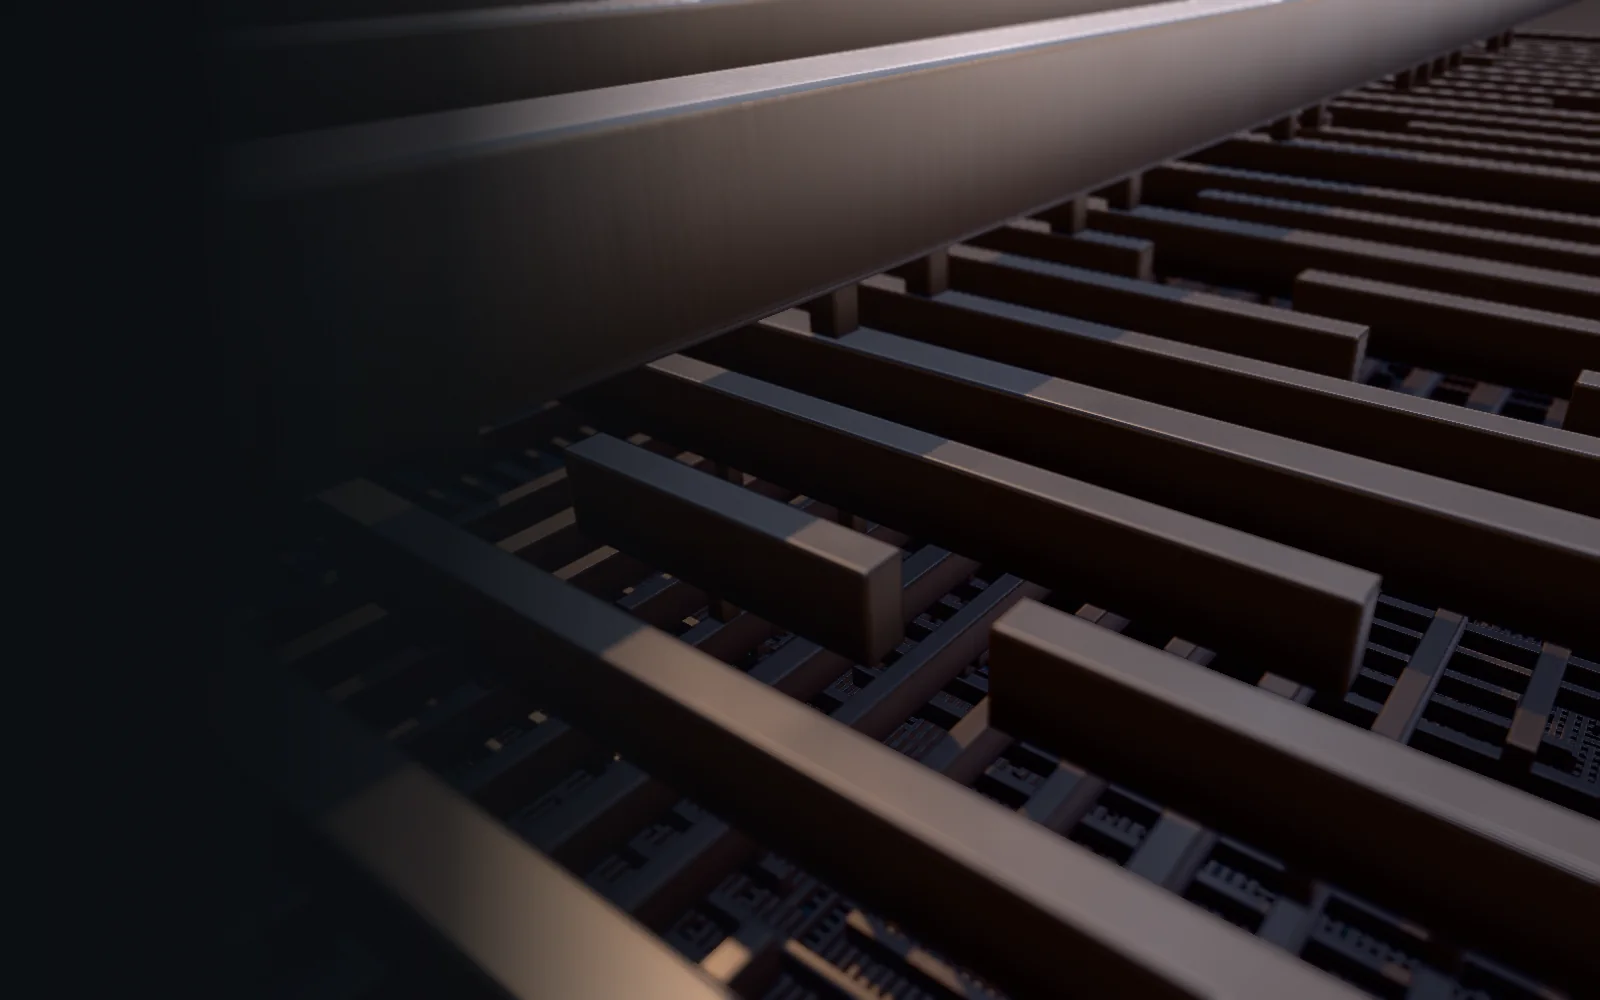
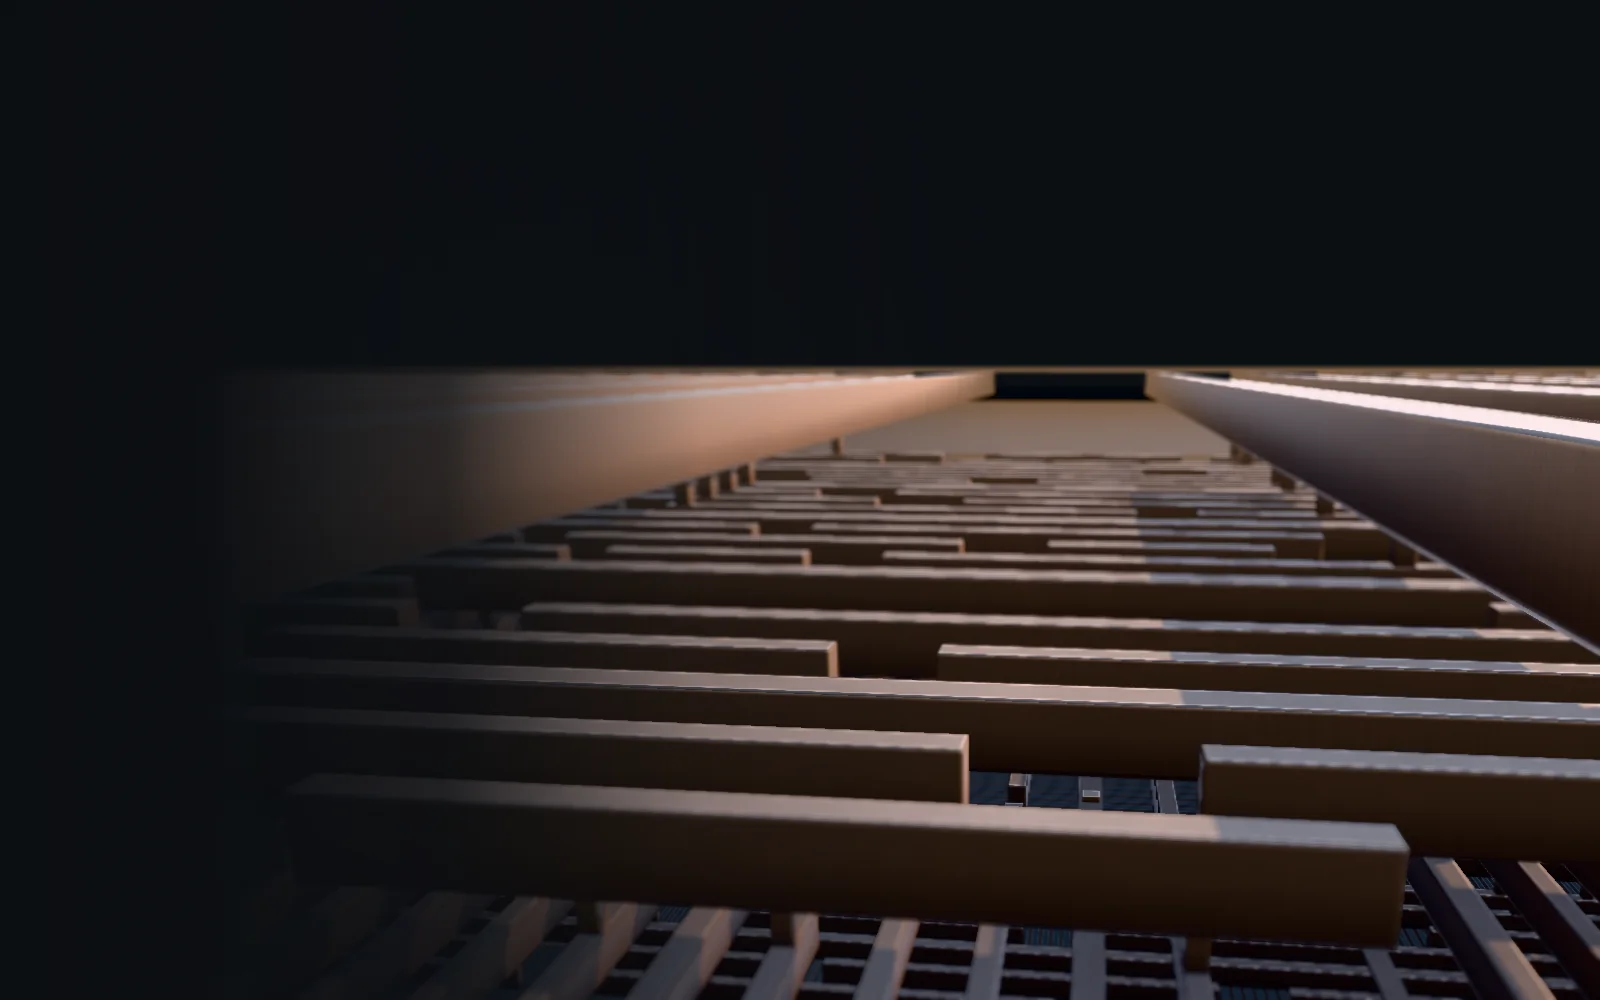
Chapter 03: reveal with a horizon and low sun, a die with real structure
Reveal: just above the top straps looking along them, 15 degrees down, so they recede to a horizon
in the upper third with lighter, warmer low-sun haze; the nearest strap sits low on the left under
the heading; a lower, stronger sun from the right with more exposure only around the reveal. Metal
the camera passed is deposited later (it no longer pops up right in front), clearance scales up.
Die: memory arrays with a fine view-dependent sheen, logic as cell rows filled with the real routing
at reduced size, analog/IO blocks at the edge, a 100 um power grid catching the sun, a lighter
silicon side.

diff --git a/src/scripts/scenes/scale.js b/src/scripts/scenes/scale.js
@@ -26,7 +26,7 @@ const BG = new Color('#0b0e12');
 const METALS = {
   lower: { color: '#7c858f', metalness: .85, roughness: .4 },
   copper: { color: '#a07f6a', metalness: .65, roughness: .38, cap: .45 },
-  thick: { color: '#b08e74', metalness: .55, roughness: .42, cap: .55 },
+  thick: { color: '#b89274', metalness: .45, roughness: .45, cap: .5 },
   silicon: { color: '#8a939c', metalness: .6, roughness: .38 },
   gate: { color: '#a59d92', metalness: .85, roughness: .32 },
   epi: { color: '#9aa3ac', metalness: .5, roughness: .36 },
@@ -34,8 +34,12 @@ const METALS = {
 };
 // Low sun from the left of the reveal avenue (+y), a little ahead of the camera.
 const SUN = new Vector3(.32, .7, .95).normalize();
+// For the reveal the sun drops lower and comes from the right of the view (long shadows, the left
+// under the heading in shade); between the two the direction is interpolated.
+const SUN_LOW = new Vector3(.35, -.78, .55).normalize();
+const sunDir = new Vector3();
 /** Shared by every material of the scene (same objects, so one update reaches all). */
-const LIGHT = { uSunDir: { value: SUN }, uHaze: { value: new Color('#3d3029') }, uDeep: { value: new Color('#05080d') },
+const LIGHT = { uSunDir: { value: sunDir }, uHorizon: { value: new Color('#8f735c') }, uHorizonMix: { value: 0 }, uHaze: { value: new Color('#3d3029') }, uDeep: { value: new Color('#05080d') },
   uCool: { value: new Vector3(.78, .9, 1.12) }, uU: { value: 0 } };
 
 const FOG = /* glsl */`
@@ -45,12 +49,15 @@ const FOG = /* glsl */`
   float glow = pow(max(dot(normalize(vWorldP - cameraPosition), uSunDir), 0.0), 5.0);
   // Depths go blue-black (the canyon floors), the distance goes to the page background.
   gl_FragColor.rgb = mix(gl_FragColor.rgb, uDeep, .65 * (1.0 - exp(-max(uTop - vWorldP.z, 0.0) / uShadeScale)));
-  gl_FragColor.rgb = mix(gl_FragColor.rgb, mix(fogColor, uHaze, glow), fogFactor);
+  // Toward the horizon of the reveal the haze is a little lighter and warmer (low sun in the air).
+  vec3 hazeColor = mix(mix(fogColor, uHaze, glow), uHorizon * (.6 + .6 * glow), uHorizonMix);
+  gl_FragColor.rgb = mix(gl_FragColor.rgb, hazeColor, fogFactor);
 #endif
 `;
 const COMMON = /* glsl */`
 uniform float uVis, uGrow, uTop, uLiner, uCap, uShadeScale, uU;
-uniform vec3 uSunDir, uHaze, uDeep, uCool;
+uniform vec3 uSunDir, uHaze, uDeep, uCool, uHorizon;
+uniform float uHorizonMix;
 varying vec3 vLocal; varying vec3 vHalf; varying vec3 vWorldP;
 float hash2(vec2 p) { vec3 q = fract(vec3(p.xyx) * .1031); q += dot(q, q.yzx + 33.33); return fract((q.x + q.y) * q.z); }
 float hash3(vec3 p) { p = fract(p * .1031); p += dot(p, p.yzx + 33.33); return fract((p.x + p.y) * p.z); }
@@ -155,7 +162,8 @@ function boxes(list, { cap = 0, ...params }, { liner = 0, shadows } = {}) {
 // ---- flat surfaces ----------------------------------------------------------------------------
 const SURFACE = /* glsl */`
 uniform float uVis, uGrow, uTop, uShadeScale, uPitch, uWidth, uDir, uU;
-uniform vec3 uSunDir, uHaze, uDeep, uCool;
+uniform vec3 uSunDir, uHaze, uDeep, uCool, uHorizon;
+uniform float uHorizonMix;
 uniform sampler2D uTopMap;
 uniform vec4 uBlocks[24];
 uniform float uKinds[24];
@@ -224,10 +232,29 @@ vec3 col; float metal, rough;
   }
   // Fine textures fade to their average once they go below a pixel (fwidth of the coordinate).
   float fine = 1.0 - smoothstep(700.0, 2500.0, fwidth(w.x));
-  // Memory: sub-arrays in a regular grid (visible from millimetres), logic: an irregular tone.
-  if (kind > .5 && kind < 1.5) col = mix(vec3(.06, .07, .085), vec3(.2, .23, .27), stripe(w.x, 9000.0, 6500.0) * stripe(w.y, 5000.0, 3600.0)) * (.85 + .3 * stripe(w.x, 9e4, 8.4e4) * stripe(w.y, 6e4, 5.6e4));
-  else if (kind > 1.5) col = vec3(.1, .095, .095);
-  else if (kind > -.5) col = mix(vec3(.07, .065, .06), mix(vec3(.05, .05, .05), vec3(.1, .095, .09), hash2(floor(w / 3000.0))), fine) * (.85 + .3 * vnoise2(w / 6e4));
+  vec3 view = normalize(cameraPosition - vWorldP);
+  float sheenK = 0.0, blockMetal = .5;
+  if (kind > .5 && kind < 1.5) {
+    // Memory: sub-arrays of bit cells in a regular grid, word-line/bit-line rhythm inside, a fine
+    // neutral interference sheen that shifts with the view angle (regular gratings do this).
+    float cells = stripe(w.x, 9000.0, 6500.0) * stripe(w.y, 5000.0, 3600.0);
+    float bank = stripe(w.x, 9e4, 8.4e4) * stripe(w.y, 6e4, 5.6e4);
+    col = mix(vec3(.07, .08, .095), vec3(.21, .23, .26), cells) * (.8 + .35 * bank);
+    col += .05 * (.5 + .5 * cos(6.2831 * (view.z * 1.7 + vec3(0.0, .33, .67)))) * bank;
+    blockMetal = .7;
+  } else if (kind > 1.5) {
+    // Analog / IO: a few large devices (capacitor and transistor arrays) in a coarse grid.
+    col = mix(vec3(.09, .09, .1), vec3(.2, .19, .18), stripe(w.x, 2.4e4, 1.5e4) * stripe(w.y, 1.6e4, 1e4));
+  } else if (kind > -.5) {
+    // Logic: standard-cell rows separated by routing channels; inside the rows, the real routing
+    // (the baked level under the top straps) at a quarter of its size, so it reads at this scale.
+    vec2 ruv = .5 + (fract(w / 3.2e4) - .5) * ${(2 * LEVELS.at(-2).extent / (2 * LEVELS.at(-1).extent)).toFixed(4)};
+    float routing = texture2D(uTopMap, ruv).g;
+    float rows = stripe(w.y, 3.2e4, 2.6e4);
+    col = mix(vec3(.06, .062, .066), mix(vec3(.08, .08, .085), vec3(.19, .17, .15), routing), rows) * (.9 + .2 * vnoise2(w / 6e4));
+  }
+  // Power grid: wide straps every 100 um in both directions, catching the sun.
+  float grid = max(stripe(w.x, 1e5, 9000.0), stripe(w.y, 1e5, 9000.0)) * step(-.5, kind);
   // The top straps (every third track, unbroken) and the level below, exactly as routed.
   float top = stripe(w.y, ${(3 * LEVELS.at(-1).pitch).toFixed(1)}, ${LEVELS.at(-1).width.toFixed(1)});
   float below = stripe(w.x, ${LEVELS.at(-2).pitch.toFixed(1)}, ${LEVELS.at(-2).width.toFixed(1)}) * .8;
@@ -235,14 +262,14 @@ vec3 col; float metal, rough;
   if (max(abs(w.x), abs(w.y)) < ${LEVELS.at(-2).extent.toFixed(1)}) below = texture2D(uTopMap, tuv).g;
   vec3 copperTone = vec3(.37, .29, .22);
   col = mix(col, mix(col * .7, copperTone * .5, .5), below * .5);
-  col = mix(col, mix(copperTone, vec3(.4), .35), top);
+  col = mix(col, mix(copperTone, vec3(.4), .35), max(top, grid * .8));
   vec2 e = min(w - vec2(${DIE.x[0].toFixed(1)}, ${DIE.y[0].toFixed(1)}), vec2(${DIE.x[1].toFixed(1)}, ${DIE.y[1].toFixed(1)}) - w);
   float edge = min(e.x, e.y);
   float ring = max((1.0 - smoothstep(2.6e4, 2.9e4, edge)) * smoothstep(1.8e4, 2.1e4, edge), (1.0 - smoothstep(4.0e4, 4.3e4, edge)) * smoothstep(3.5e4, 3.8e4, edge));
   float pads = (1.0 - smoothstep(1.4e5, 1.42e5, edge)) * smoothstep(7e4, 7.2e4, edge) * stripe(e.x < e.y ? w.y : w.x, 1.2e5, 7e4);
   col = mix(col, vec3(.55, .58, .62), ring * .8);
   col = mix(col, vec3(.7, .56, .44), pads);
-  metal = .45 + .4 * top; rough = .38;
+  metal = mix(blockMetal, .8, max(top, grid)); rough = mix(.4, .3, max(top, grid));
 #endif
 float ao = depthShade(vWorldP.z);`)
       .replace('#include <color_fragment>', '#include <color_fragment>\ndiffuseColor.rgb = col;')
@@ -328,7 +355,7 @@ export async function createScale({ renderer, environment, dof, shadows = true }
   for (const s of surfaces) if (s.die) floorplan().forEach((b, i) => { s.mesh.userData.uniforms.uBlocks.value[i].set(b[0], b[1], b[2], b[3]); s.mesh.userData.uniforms.uKinds.value[i] = b[4]; });
   for (const s of surfaces) scene.add(s.mesh);
   // The die body under it all (its top hidden below the oxide), for the edges in the far view.
-  const body = new Mesh(new BoxGeometry(dieSize[0], dieSize[1], DIE.thickness), new MeshStandardMaterial({ color: '#3a4048', metalness: .6, roughness: .5 }));
+  const body = new Mesh(new BoxGeometry(dieSize[0], dieSize[1], DIE.thickness), new MeshStandardMaterial({ color: '#6a7078', metalness: .55, roughness: .45 }));
   body.position.set(dieCenter[0], dieCenter[1], -DIE.thickness / 2 - 2);
   scene.add(body);
 
@@ -363,7 +390,10 @@ export async function createScale({ renderer, environment, dof, shadows = true }
       camera.projectionMatrixInverse.copy(camera.projectionMatrix).invert();
       camera.position.set(...cam.position);
       camera.lookAt(...cam.target);
-      scene.fog.near = d * 2.2; scene.fog.far = d * 14;
+      // The reveal gets the low sun, more of it, and the horizon haze; inside the layers stays as is.
+      const reveal = smoothstep(.42, .56, progress) * (1 - smoothstep(.64, .74, progress));
+      LIGHT.uHorizonMix.value = reveal;
+      scene.fog.near = d * (2.2 - .9 * LIGHT.uHorizonMix.value); scene.fog.far = d * (14 - 5 * LIGHT.uHorizonMix.value);
 
       // Darker the deeper below the viewer (and below the deposited top): canyons, not a black pit.
       const g = growth(progress), top = Math.min(buildHeight(progress), cam.position[2] + .3 * d), shade = .3 * top + 60;
@@ -388,13 +418,17 @@ export async function createScale({ renderer, environment, dof, shadows = true }
         s.mesh.visible = u.uGrow.value > 1e-3 && (!s.inner || u.uVis.value < 1);
         s.mesh.material = s.mesh.userData.variants[u.uGrow.value < 1 ? 1 : 0];
       }
+      sunDir.copy(SUN).lerp(SUN_LOW, reveal).normalize();
+      sun.intensity = 2.6 + 8 * reveal;
+      scene.environmentIntensity = 1.3 + .6 * reveal;
+      LIGHT.uHorizonMix.value = reveal;
       sun.target.position.set(...cam.target);
-      sun.position.copy(sun.target.position).addScaledVector(SUN, d * 4);
+      sun.position.copy(sun.target.position).addScaledVector(sunDir, d * 4);
       const sc = sun.shadow.camera, r = d * 1.4;
       sc.left = -r; sc.right = r; sc.top = r; sc.bottom = -r; sc.near = d * .5; sc.far = d * 9;
       sc.updateProjectionMatrix();
       sun.shadow.bias = -.0004; sun.shadow.normalBias = d * .002;
-      renderer.toneMappingExposure = 1.05;
+      renderer.toneMappingExposure = 1.05 + .5 * reveal;
       dof.render(scene, camera, { focus: d, aperture: cam.aperture, opacity, farMax: 3.5 });
       return opacity > .6 ? { ...scaleBar(size[1], cam.fov, d, 90), scene: 'scale' } : null;
     },

diff --git a/src/scripts/scenes/scale-math.js b/src/scripts/scenes/scale-math.js
@@ -93,11 +93,11 @@ export function keyframes(framing = 'desktop') {
     // Above the deposition front, looking down across the crossing middle levels; the thick top
     // levels then rise around the camera as it climbs.
     { target: [-200, 100, 700], d: 2000, az: .75, el: .78, fov: m ? 52 : 40, shift: m ? [0, -.25] : [.16, 0], aperture: .035 },
-    // Reveal: an oblique view from just above the top straps, about 23 degrees down: two or three
-    // thick straps cross the near third, through the openings the eye falls past the middle levels
-    // to the fine ones; the structure repeats to a horizon at the top of the frame. The sun comes
-    // from the right, so the left (under the heading) is the shadow side.
-    { target: [2500, 2000, 3500], d: 15000, az: .95, el: .5, fov: m ? 60 : 50, shift: m ? [0, -.5] : [.2, .02], aperture: .012 },
+    // Reveal: just above the top straps, about 15 degrees down, looking along them: they recede as
+    // rails to a horizon in the upper third, the nearest one quiet on the left under the heading;
+    // between them the eye drops past the middle levels to the fine ones. The low sun from the right
+    // throws long shadows of the straps across the level below.
+    { target: [15000, 4500, 5000], d: 18000, az: 1.45, el: .26, fov: m ? 60 : 50, shift: m ? [0, -.5] : [.2, -.3], aperture: .012 },
     // The die corner: pad ring, seal ring, floorplan blocks, the real stack somewhere inside.
     { target: [-1.2e5, 2.6e5, STACK_TOP], d: m ? 2.4e6 : 1.6e6, az: .9, el: .78, fov: m ? 36 : 30, shift: m ? [0, -.55] : [.24, 0], aperture: .008 },
     { target: [(DIE.x[0] + DIE.x[1]) / 2, (DIE.y[0] + DIE.y[1]) / 2, 0], d: m ? 1.6e7 : 9e6, az: 1.0, el: .95, fov: m ? 36 : 30, shift: m ? [0, -.5] : [.24, 0], aperture: .012 },
@@ -149,7 +149,7 @@ export function scaleCamera(u = 0, framing = 'desktop', drift = 0) {
 // ---- routing ----------------------------------------------------------------------------------
 /** Clearance around the camera path: metal never comes closer than this (nm). */
 /** Clearance around the camera path: metal never comes closer than this (nm); wide lines keep more. */
-function clearance(cam, level) { return Math.min(.45 * cam.d, 1500) + level.width; }
+function clearance(cam, level) { return Math.min(.6 * cam.d, 3000) + level.width; }
 
 /** Camera samples along the whole path (both framings), for clearing a street through the stack. */
 function cameraSamples() {
@@ -158,7 +158,7 @@ function cameraSamples() {
   return out;
 }
 /** Metal the camera passes close to is deposited only after it has passed: last u it is near, plus a margin. */
-export const AFTER = { margin: .03, span: .04 };
+export const AFTER = { margin: .1, span: .05 };
 function after(box, near, level) {
   let last = -1;
   for (const c of near) if (boxDistance(c.position, box.min, box.max) <= clearance(c, level)) last = Math.max(last, c.u);
@@ -288,6 +288,10 @@ export function floorplan(seed = 9) {
     else { const m = y0 + h * t; split(x0, y0, x1, m, depth + 1); split(x0, m, x1, y1, depth + 1); }
   };
   split(DIE.x[0] + margin, DIE.y[0] + margin, DIE.x[1] - margin, DIE.y[1] - margin, 0);
+  // Analog/IO blocks sit at the die edge, the block holding the 3D stack is logic.
+  for (const b of out) if (b[4] === 2 && b[0] > DIE.x[0] + 3e5 && b[2] < DIE.x[1] - 3e5 && b[1] > DIE.y[0] + 3e5 && b[3] < DIE.y[1] - 3e5) b[4] = 0;
+  const edgeBlocks = out.filter(b => b[0] < DIE.x[0] + 3e5 || b[3] > DIE.y[1] - 3e5);
+  if (!out.some(b => b[4] === 2) && edgeBlocks.length) edgeBlocks[0][4] = 2;
   for (const b of out) if (b[0] < 0 && b[2] > 0 && b[1] < 0 && b[3] > 0) b[4] = 0;
   return out.slice(0, 24);
 }
